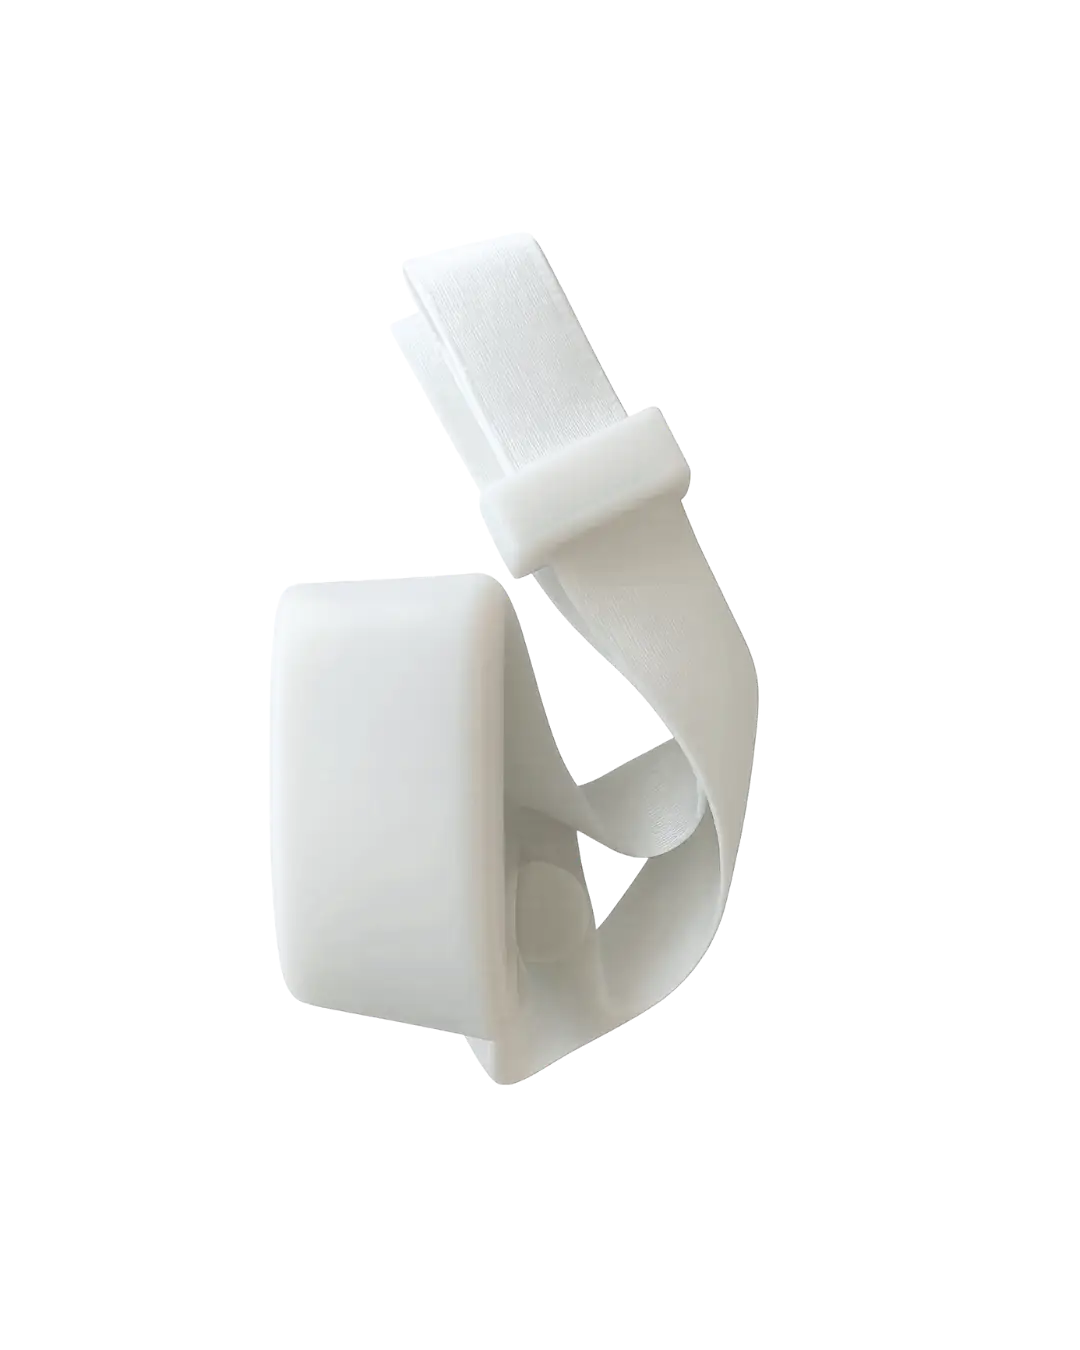
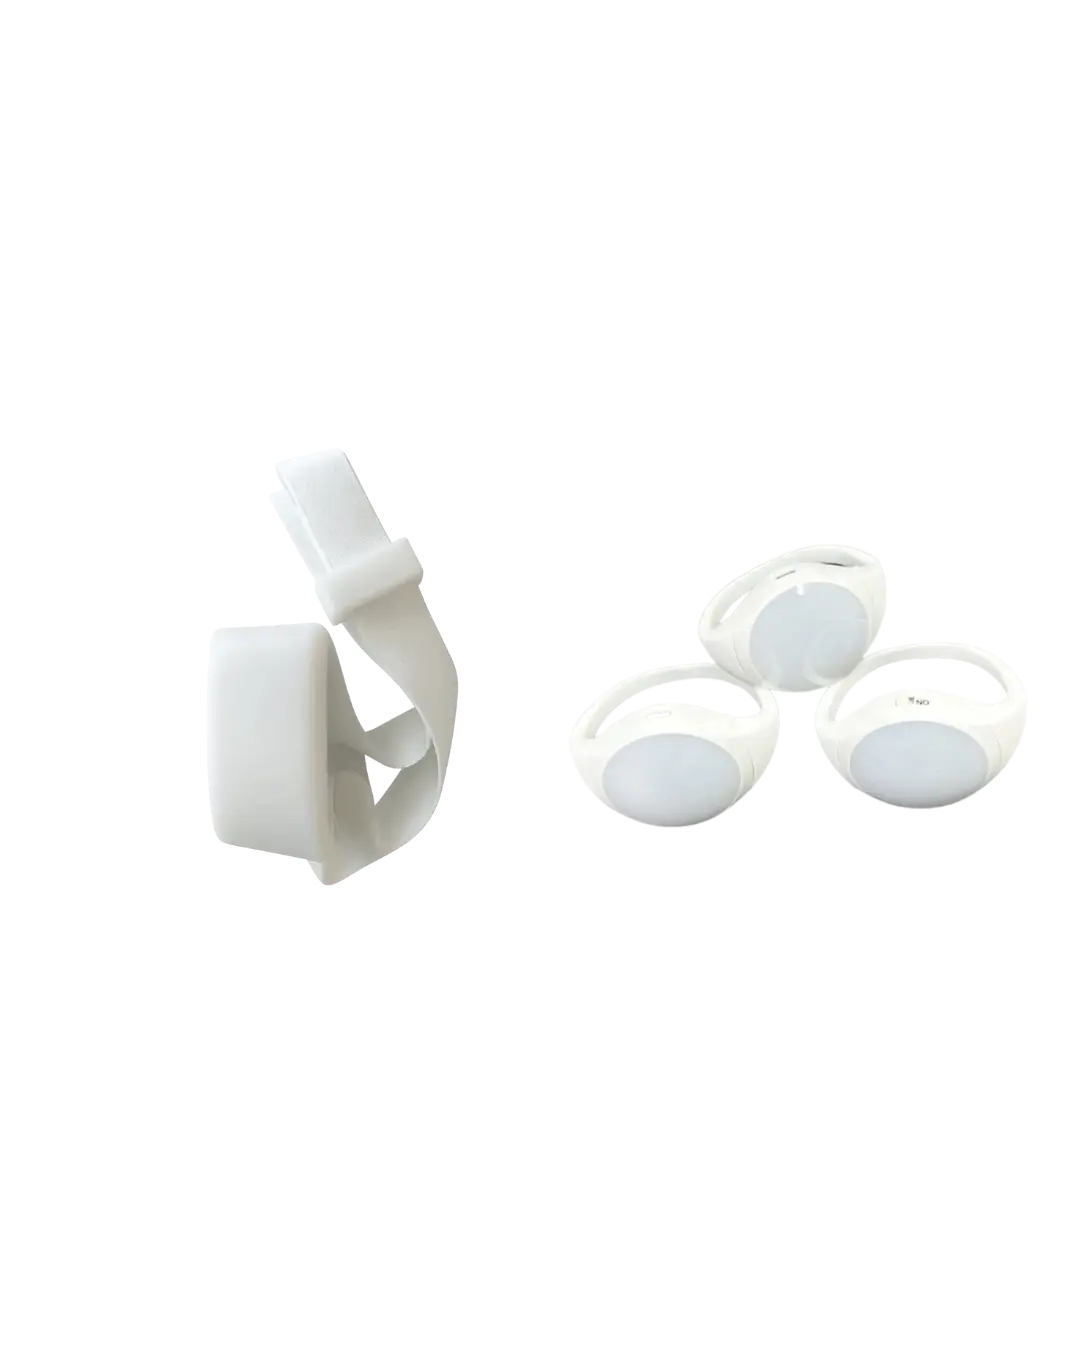
new button

Changed region(s): [[0.1833, 0.1867, 0.9472, 0.8089], [0.8861, 0.4667, 0.9167, 0.4978]]

diff --git a/src/components/Hero.tsx b/src/components/Hero.tsx
@@ -60,10 +60,12 @@ const Hero = () => {
             >
               <Link
                 to="/contact#contact"
-                className="sm:px-9 px-8 py-3.5 sm:text-xl text-lg rounded-full bg-[#3CACD2] text-primary transition-all duration-200 hover:bg-[#4BC8D0] hover:outline hover:outline-[#3CACD2]/40 hover:outline-offset-[-1px]"
+                className="sm:px-9 px-8 py-3.5 sm:text-xl text-lg rounded-full bg-[#3CACD2] text-primary transition-all duration-200 hover:bg-[#4BC8D0] hover:outline hover:outline-[#3CACD2]/40 hover:outline-offset-[-1px] hover:shadow-[0_0_15px_5px_rgba(60,172,210,0.5)]"
               >
                 Book a Call
               </Link>
+
+
             </motion.div>
           </div>
         </div>

diff --git a/src/components/ProductRebracelet.tsx b/src/components/ProductRebracelet.tsx
@@ -1,5 +1,5 @@
 import React from "react";
-import ReBracelet from "../assets/recharchable.webp";
+import ReBracelet from "../assets/photos/productrebracelet.webp";
 
 const ProductSmartTag: React.FC = () => {
   return (
